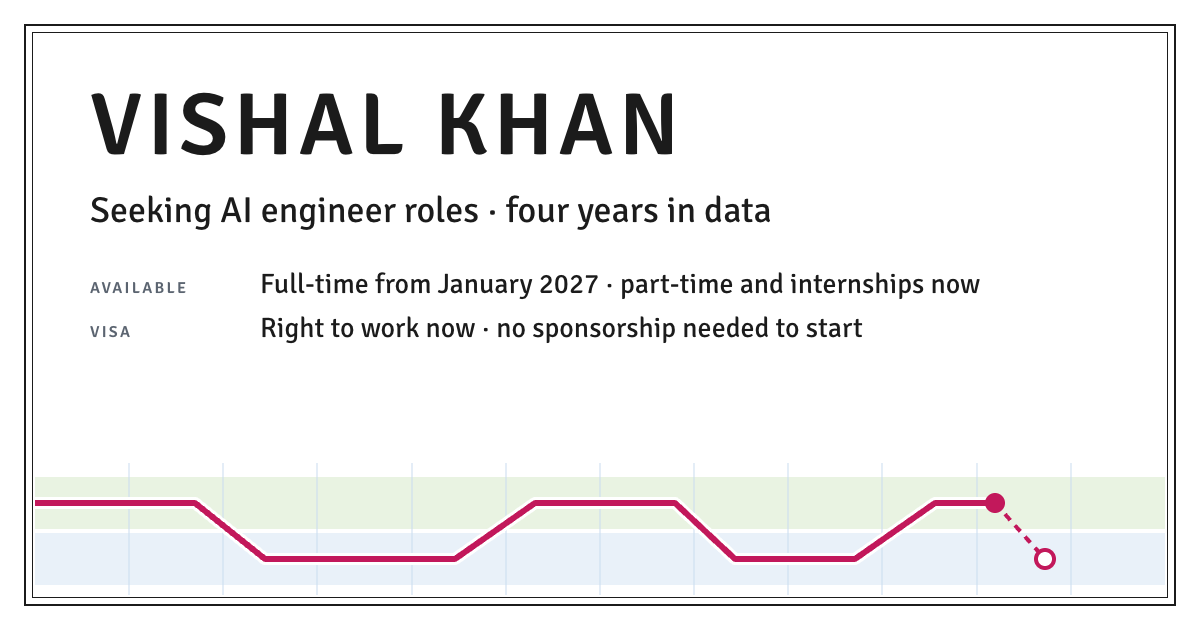
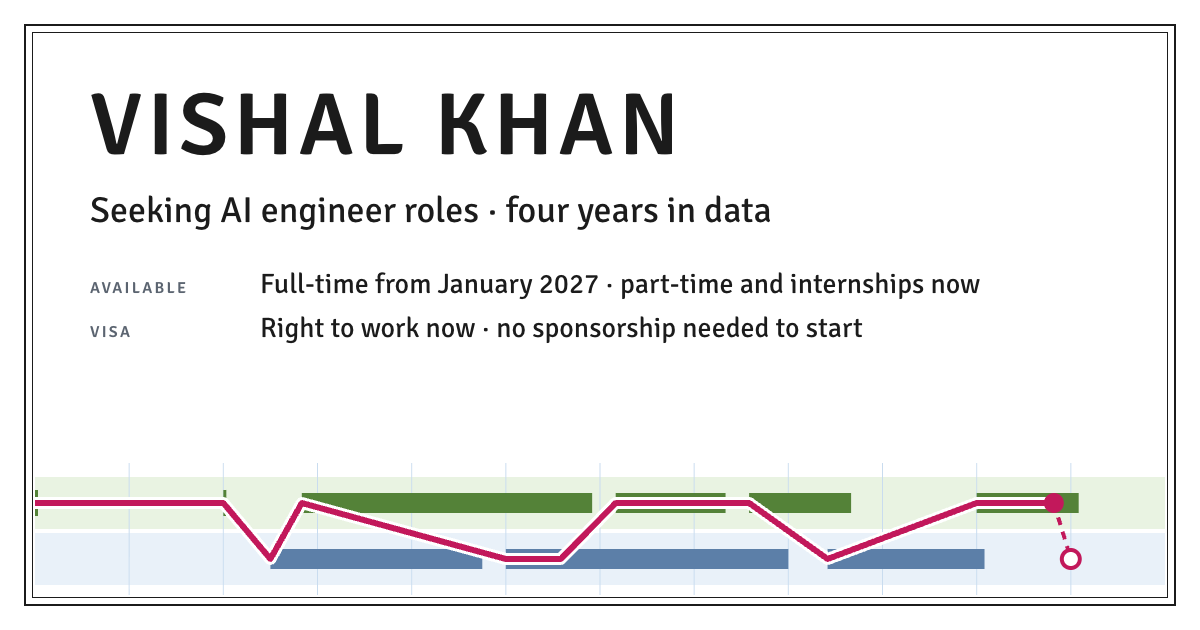
feat: draw the share card from the real record, and ship the font licence
The card now takes its route from /timeline through the page's own
record code, so the route follows the real tracks and the full-time
ring marks January 2027 as the map does. The PNG is re-rendered with
its provenance stamped in. The favicon's comment says what it is and
when it was made. Signika is OFL-1.1, which asks for the licence to
travel with the font, so it ships at public/licenses/signika-OFL.txt.

Changed region(s): [[0.1542, 0.7841, 0.925, 0.9048], [0.8633, 0.8444, 0.925, 0.9048]]

diff --git a/frontend/scripts/og-card/og-card.ts b/frontend/scripts/og-card/og-card.ts
@@ -1,0 +1,147 @@
+/**
+ * Fills og-card.html when it opens. The lettering is quoted from
+ * src/lib/constants.ts. The route is the first sheet's own: the record comes
+ * from the backend's /timeline and is placed by buildRecord and routePoints,
+ * so the card draws what the page draws on the day it is rendered.
+ */
+import '@fontsource/signika/latin-400.css'
+import '@fontsource/signika/latin-600.css'
+import { fetchTimeline } from '../../src/lib/api'
+import { FULL_TIME_FROM, PROFILE, ROLE_LINE, SHEET_FACTS } from '../../src/lib/constants'
+import { buildRecord, routePoints, toYear, type SheetRecord, type Track } from '../../src/lib/timeline'
+
+const SVG_NS = 'http://www.w3.org/2000/svg'
+
+/** The strip's size in px. og-card.html places it inside the sheet's inner frame. */
+const WIDTH = 1130
+const HEIGHT = 132
+
+const TRACKS: Track[] = ['education', 'work']
+
+// Each track's band, in px from the strip's top.
+const BAND: Record<Track, { top: number; height: number }> = {
+  education: { top: 14, height: 52 },
+  work: { top: 70, height: 52 },
+}
+
+/** The facts the card has room for, named by their SHEET_FACTS label. */
+const CARD_FACTS = ['Available', 'Visa']
+
+function centre(track: Track): number {
+  return BAND[track].top + BAND[track].height / 2
+}
+
+function isoDate(date: Date): string {
+  const pad = (n: number) => String(n).padStart(2, '0')
+  return `${date.getFullYear()}-${pad(date.getMonth() + 1)}-${pad(date.getDate())}`
+}
+
+function slot<T extends Element>(name: string): T {
+  const node = document.querySelector<T>(`[data-slot="${name}"]`)
+  if (!node) throw new Error(`og-card.html has no data-slot="${name}".`)
+  return node
+}
+
+function shape(name: string, attributes: Record<string, string | number>): SVGElement {
+  const node = document.createElementNS(SVG_NS, name)
+  for (const [key, value] of Object.entries(attributes)) node.setAttribute(key, String(value))
+  return node
+}
+
+function letter(): void {
+  slot('name').textContent = PROFILE.name
+  slot('role').textContent = ROLE_LINE
+  const list = slot('facts')
+  for (const label of CARD_FACTS) {
+    const fact = SHEET_FACTS.find((item) => item.label === label)
+    if (!fact) throw new Error(`SHEET_FACTS has no "${label}" fact.`)
+    const term = document.createElement('dt')
+    term.textContent = fact.label
+    const value = document.createElement('dd')
+    value.textContent = fact.value
+    list.append(term, value)
+  }
+}
+
+/** The first sheet's map at card size, without its lettering. */
+function drawRoute(svg: SVGSVGElement, record: SheetRecord, now: Date): void {
+  const x = (year: number) => ((year - record.from) / (record.to - record.from)) * WIDTH
+  svg.setAttribute('width', String(WIDTH))
+  svg.setAttribute('height', String(HEIGHT))
+  svg.setAttribute('viewBox', `0 0 ${WIDTH} ${HEIGHT}`)
+
+  for (const track of TRACKS) {
+    svg.append(shape('rect', { class: `band ${track}`, x: 0, y: BAND[track].top, width: WIDTH, height: BAND[track].height }))
+  }
+  // The strip's two ends are the axis ends, so only the year starts between them need a line.
+  for (let year = record.from + 1; year < record.to; year++) {
+    svg.append(shape('line', { class: 'grid', 'data-year': year, x1: x(year), y1: 0, x2: x(year), y2: HEIGHT }))
+  }
+  for (const entry of record.entries) {
+    // As on the page: a year-only entry is a 3px tick at its year's start, and a bar stands taller than the casing.
+    const tall = entry.point ? 26 : 20
+    svg.append(
+      shape('rect', {
+        class: `bar ${entry.track}`,
+        x: x(entry.start),
+        y: centre(entry.track) - tall / 2,
+        width: entry.point ? 3 : Math.max(x(entry.end) - x(entry.start), WIDTH * 0.004),
+        height: tall,
+      }),
+    )
+  }
+
+  const route = routePoints(record, now)
+  const points = route.map((p) => `${x(p.year)},${centre(p.track)}`).join(' ')
+  svg.append(shape('polyline', { class: 'path casing', points }), shape('polyline', { class: 'path line', points }))
+
+  const today = toYear(now)
+  const hereTrack: Track = route.at(-1)?.track ?? 'education'
+  const beforeFullTime = today < FULL_TIME_FROM
+  if (beforeFullTime) {
+    svg.append(shape('line', { class: 'leg', x1: x(today), y1: centre(hereTrack), x2: x(FULL_TIME_FROM), y2: centre('work') }))
+  }
+  svg.append(
+    shape('circle', { class: 'here', 'data-marker': 'today', cx: x(today), cy: centre(hereTrack), r: 10 }),
+    shape('circle', {
+      class: beforeFullTime ? 'ring' : 'ring reached',
+      'data-marker': 'full-time',
+      cx: x(FULL_TIME_FROM),
+      cy: centre('work'),
+      r: 9,
+    }),
+  )
+}
+
+async function fill(): Promise<void> {
+  const now = new Date()
+  const timeline = await fetchTimeline()
+  if (!timeline) throw new Error('/api/timeline sent no record. Is the backend running on port 8000?')
+  const record = buildRecord(timeline, now, FULL_TIME_FROM)
+  if (record.entries.length === 0) throw new Error('The record has no dated entries to draw.')
+  if (record.unplotted.length > 0) {
+    const titles = record.unplotted.map((item) => item.title).join('; ')
+    throw new Error(`The route would leave out entries whose dates do not read: ${titles}`)
+  }
+  letter()
+  drawRoute(slot<SVGSVGElement>('route'), record, now)
+  for (const weight of [400, 600]) {
+    const faces = await document.fonts.load(`${weight} 32px Signika`)
+    if (!faces.some((face) => face.status === 'loaded')) throw new Error(`Signika ${weight} did not load.`)
+  }
+  await document.fonts.ready
+  document.documentElement.dataset.now = isoDate(now)
+}
+
+fill().then(
+  () => {
+    document.documentElement.dataset.state = 'ready'
+  },
+  (error: unknown) => {
+    document.documentElement.dataset.state = 'error'
+    const message = document.createElement('pre')
+    message.className = 'error'
+    message.textContent = error instanceof Error ? error.message : String(error)
+    document.body.replaceChildren(message)
+  },
+)

diff --git a/frontend/scripts/og-card/og-card.html b/frontend/scripts/og-card/og-card.html
@@ -1,20 +1,10 @@
 <!doctype html>
-<!-- Re-render: open this file in Chrome for Testing at a 1200x630 viewport (with --allow-file-access-from-files, for the fonts), capture a PNG over CDP to ../../public/og-image.png, then run stamp_provenance.py on it. -->
+<!-- Re-render: with the backend on port 8000, run `npx vite` in frontend/, open http://localhost:5173/scripts/og-card/og-card.html in Chrome for Testing at a 1200x630 viewport, wait for <html data-state="ready">, capture a PNG over CDP to public/og-image.png, then run stamp_provenance.py on it with the date in data-now. -->
 <html lang="en">
   <head>
     <meta charset="utf-8" />
     <title>Share card</title>
     <style>
-      @font-face {
-        font-family: 'Signika';
-        font-weight: 400;
-        src: url('../../node_modules/@fontsource/signika/files/signika-latin-400-normal.woff2') format('woff2');
-      }
-      @font-face {
-        font-family: 'Signika';
-        font-weight: 600;
-        src: url('../../node_modules/@fontsource/signika/files/signika-latin-600-normal.woff2') format('woff2');
-      }
       :root {
         --paper: #ffffff;
         --ink: #1b1b1b;
@@ -22,6 +12,8 @@
         --grid: #c9dcef;
         --edu: #e3f0db;
         --work: #e4edf7;
+        --edu-bar: #548238;
+        --work-bar: #5c7fa8;
         --route: #c2185b;
       }
       * {
@@ -78,22 +70,27 @@
       .route {
         position: absolute;
         left: 9px;
-        right: 9px;
         bottom: 9px;
-        height: 132px;
       }
       .band {
         opacity: 0.8;
       }
-      .edu {
+      .band.education {
         fill: var(--edu);
       }
-      .work {
+      .band.work {
         fill: var(--work);
       }
       .grid {
         stroke: var(--grid);
         stroke-width: 1;
+        shape-rendering: crispEdges;
+      }
+      .bar.education {
+        fill: var(--edu-bar);
+      }
+      .bar.work {
+        fill: var(--work-bar);
       }
       .path {
         fill: none;
@@ -120,40 +117,24 @@
         stroke: var(--route);
         stroke-width: 4;
       }
+      .ring.reached {
+        fill: var(--route);
+      }
+      .error {
+        padding: 24px;
+        font: 20px/1.4 ui-monospace, monospace;
+        color: var(--route);
+        white-space: pre-wrap;
+      }
     </style>
+    <script type="module" src="./og-card.ts"></script>
   </head>
   <body>
     <main class="sheet">
-      <h1>Vishal Khan</h1>
-      <p class="role">Seeking AI engineer roles · four years in data</p>
-      <dl>
-        <dt>Available</dt>
-        <dd>Full-time from January 2027 · part-time and internships now</dd>
-        <dt>Visa</dt>
-        <dd>Right to work now · no sponsorship needed to start</dd>
-      </dl>
-      <svg class="route" viewBox="0 0 1130 132" preserveAspectRatio="none" aria-hidden="true">
-        <rect class="band edu" x="0" y="14" width="1130" height="52" />
-        <rect class="band work" x="0" y="70" width="1130" height="52" />
-        <g class="grid">
-          <line x1="94" y1="0" x2="94" y2="132" />
-          <line x1="188" y1="0" x2="188" y2="132" />
-          <line x1="282" y1="0" x2="282" y2="132" />
-          <line x1="377" y1="0" x2="377" y2="132" />
-          <line x1="471" y1="0" x2="471" y2="132" />
-          <line x1="565" y1="0" x2="565" y2="132" />
-          <line x1="659" y1="0" x2="659" y2="132" />
-          <line x1="753" y1="0" x2="753" y2="132" />
-          <line x1="847" y1="0" x2="847" y2="132" />
-          <line x1="942" y1="0" x2="942" y2="132" />
-          <line x1="1036" y1="0" x2="1036" y2="132" />
-        </g>
-        <polyline class="path casing" points="0,40 160,40 230,96 420,96 500,40 640,40 700,96 820,96 900,40 960,40" />
-        <polyline class="path line" points="0,40 160,40 230,96 420,96 500,40 640,40 700,96 820,96 900,40 960,40" />
-        <line class="leg" x1="960" y1="40" x2="1010" y2="96" />
-        <circle class="here" cx="960" cy="40" r="10" />
-        <circle class="ring" cx="1010" cy="96" r="9" />
-      </svg>
+      <h1 data-slot="name"></h1>
+      <p class="role" data-slot="role"></p>
+      <dl data-slot="facts"></dl>
+      <svg class="route" data-slot="route" aria-hidden="true"></svg>
     </main>
   </body>
 </html>
